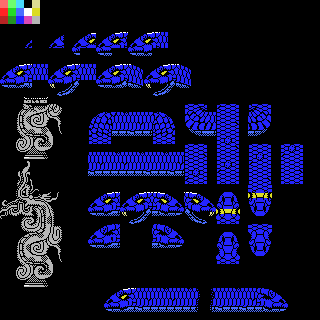
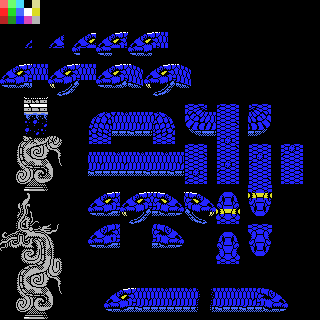
started working on the snake routines for phase 3 of boss 7

Changed region(s): [[0.0, 0.3125, 0.2188, 1.0]]

diff --git a/java/src/xspelunker2/Bosses.java b/java/src/xspelunker2/Bosses.java
@@ -823,7 +823,7 @@ public class Bosses {
 
             List<int[]> nameTableBoxes = new ArrayList<>();
             nameTableBoxes.clear();
-            nameTableBoxes.add(new int[]{0, 96, 64, 288});  // statue
+            nameTableBoxes.add(new int[]{0, 96, 64, 320});  // statue
             List<int[][]> nametables_statue = addBossTilesInGapsForBoxes(nameTableBoxes, baseImage, boss7Tiles, availableTiles, collision, false, true);
             // mark statue tiles with "2":
             for(int i = 0;i<256;i++) {
@@ -843,7 +843,7 @@ public class Bosses {
             
             // statue:
             int nameTable[][] = nametables_statue.get(0);
-            addNameTable(nameTable, 0, 8, 8, 24, nameTableData);  // statue full  8x16
+            addNameTable(nameTable, 0, 12, 8, 28, nameTableData);  // statue full  8x16
 
             // snake within statue phase 1:
             nameTable = nametables_phase1.get(0);
@@ -882,7 +882,7 @@ public class Bosses {
 
             List<int[]> nameTableBoxes = new ArrayList<>();
             nameTableBoxes.clear();
-            nameTableBoxes.add(new int[]{0, 96, 64, 160});  // statue
+            nameTableBoxes.add(new int[]{0, 96, 64, 192});  // statue
             List<int[][]> nametables_statue = addBossTilesInGapsForBoxes(nameTableBoxes, baseImage, boss7Tiles, availableTiles, collision, false, true);
             // mark statue tiles with "2":
             for(int i = 0;i<256;i++) {
@@ -897,7 +897,7 @@ public class Bosses {
             
             // broken statue:
             int nameTable[][] = nametables_statue.get(0);
-            addNameTable(nameTable, 2, 1, 8, 8, nameTableData);  // statue broken  6x7
+            addNameTable(nameTable, 2, 5, 8, 12, nameTableData);  // statue broken  6x7
 
             // snake pieces
             nameTable = nametables_phase2.get(0);
@@ -954,7 +954,7 @@ public class Bosses {
 
             List<int[]> nameTableBoxes = new ArrayList<>();
             nameTableBoxes.clear();
-            nameTableBoxes.add(new int[]{24, 96, 48, 104});  // statue
+            nameTableBoxes.add(new int[]{24, 96, 48, 136});  // statue
             List<int[][]> nametables_statue = addBossTilesInGapsForBoxes(nameTableBoxes, baseImage, boss7Tiles, availableTiles, collision, false, true);
             // mark statue tiles with "2":
             for(int i = 0;i<256;i++) {
@@ -969,7 +969,7 @@ public class Bosses {
             
             // final broken statue:
             int nameTable[][] = nametables_statue.get(0);
-            addNameTable(nameTable, 0, 0, 3, 1, nameTableData);  // final broken statue 3x1
+            addNameTable(nameTable, 0, 0, 3, 5, nameTableData);  // final broken statue 3x5
              
             // dead head:
             nameTable = nametables_phase2.get(0);
